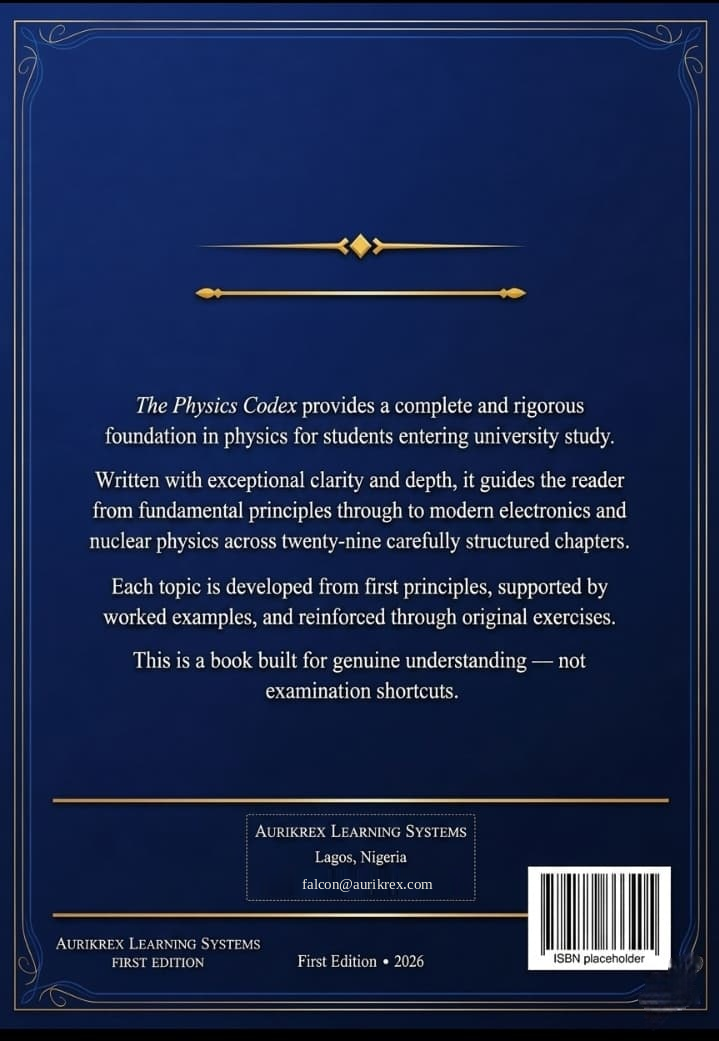
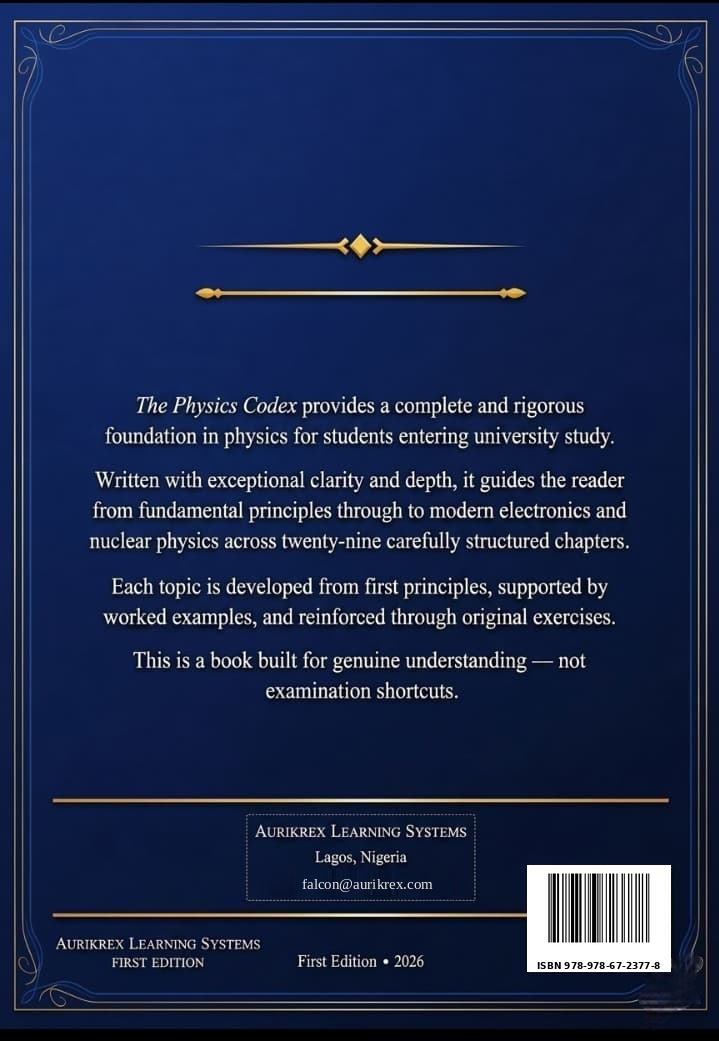
Replace back cover ISBN placeholder

Changed region(s): [[0.7344, 0.83, 0.9179, 0.9529]]

diff --git a/PUBLICATION_READINESS_REVIEW_2026-10-22.md b/PUBLICATION_READINESS_REVIEW_2026-10-22.md
@@ -19,9 +19,9 @@
 - permission to publish the contribution; and
 - reinclusion of the file in `book_main.tex` after approval.
 
-### 2. Back-cover ISBN barcode — verify with the publisher/printer
+### 2. Back-cover ISBN barcode — completed, printer proof still recommended
 
-The ISBN is now present in the copyright page. The back-cover artwork is a raster image, so this source review cannot verify whether a scannable ISBN-13 barcode is already embedded in the artwork. Before print, confirm that the back cover contains a correctly generated barcode for **9789786723778** and that the quiet zone and print contrast meet the printer's requirements. If it is absent, update `back_cover.png` with the barcode supplied by the publisher or printer.
+The back-cover placeholder barcode was replaced in `back_cover.png` with an ISBN-13 barcode for **9789786723778**, together with the printed text **ISBN 978-978-67-2377-8**. The edited artwork was visually checked and the placeholder label is gone. The printer should still verify barcode scanability, quiet zone, contrast, and final reproduction at proof size.
 
 ### 3. Build and PDF inspection
 
